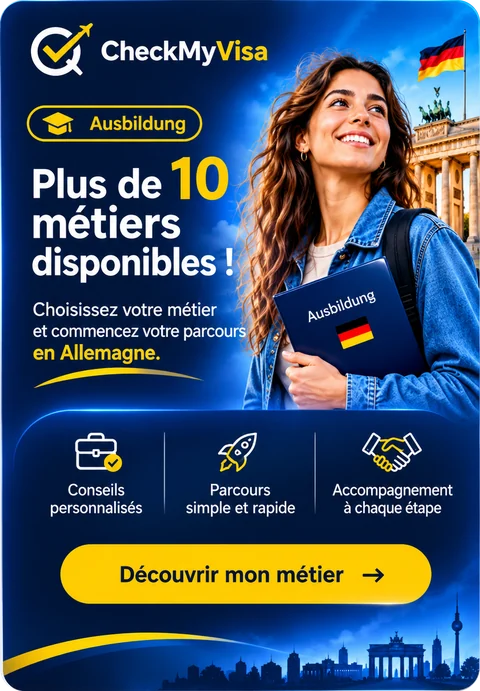
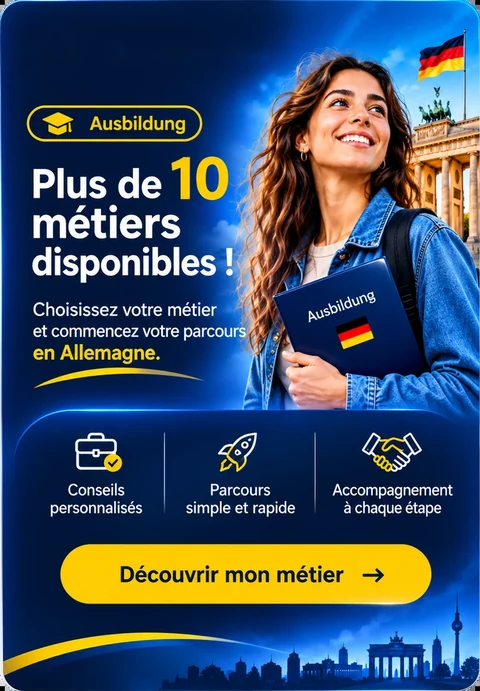
Accueil et Host & Go : placement des cartes, menu, image Ausbildung, thèmes, étape 2 (version 2026.11.23.2210)
- Accueil : cartes Ausbildung et Host & Go en rangée côte à côte avant la FAQ (empilées sur mobile)
- Carte Ausbildung : logo CheckMyVisa et flèche effacés de l'image
- Menu du haut : lien Ausbildung retiré sur toutes les pages (accès par la carte et le pied de page)
- Host & Go : six thèmes illustrés en bas de page (FR/EN/AR)
- Ausbildung étape 2 : expérience en cases à cocher, « Aucune expérience » exclusive

Claude-Session: https://claude.ai/code/session_01J6Y77exryMjTcQ2BsVLuCE

diff --git a/hostgo.js b/hostgo.js
@@ -4,9 +4,9 @@
   var lang = (window.SI && SI.lang) || document.documentElement.lang || "fr";
   if (["fr", "en", "ar"].indexOf(lang) < 0) lang = "fr";
   var copy = {
-    en: {home:"Home",about:"About",how:"How It Works",safety:"Safety",faq:"FAQ",signin:"Sign In",headline:"Travel differently.<br>Experience more.",lead:"Connect with locals, share cultures, and make your journey unforgettable.",start:"Start your journey",join:"Join As...",sub:"Choose how you want to be part of the Host & Go community",host:"Host",hostDesc:"Welcome travellers and share your home",traveller:"Traveller / Worker",travellerDesc:"Discover places, share your skills and experience local life",secure:"Safe & Secure<br>Community",global:"Global Network<br>Worldwide",human:"Real Human<br>Connections",together:"<em>Together,</em> let’s explore the world.",tagline:"Host & Go — More than a trip, a human exchange.",joinNow:"Join Now →"},
-    fr: {home:"Accueil",about:"À propos",how:"Comment ça marche",safety:"Sécurité",faq:"FAQ",signin:"Se connecter",headline:"Voyagez autrement.<br>Vivez plus.",lead:"Rencontrez les habitants, partagez les cultures et rendez votre voyage inoubliable.",start:"Commencer l’aventure",join:"Rejoindre comme…",sub:"Choisissez votre rôle dans la communauté Host & Go",host:"Hôte",hostDesc:"Accueillez des voyageurs et partagez votre quotidien",traveller:"Voyageur / Worker",travellerDesc:"Découvrez de nouveaux lieux, partagez vos compétences et vivez comme un local",secure:"Communauté<br>sûre et sécurisée",global:"Réseau mondial<br>international",human:"De vraies rencontres<br>humaines",together:"<em>Ensemble,</em> explorons le monde.",tagline:"Host & Go — Plus qu’un voyage, un échange humain.",joinNow:"Rejoindre →"},
-    ar: {home:"الرئيسية",about:"من نحن",how:"كيف يعمل",safety:"السلامة",faq:"الأسئلة",signin:"تسجيل الدخول",headline:"سافر بطريقة مختلفة.<br>اكتشف المزيد.",lead:"تعرّف على السكان المحليين وتبادل الثقافات واجعل رحلتك لا تُنسى.",start:"ابدأ رحلتك",join:"انضم بصفتك…",sub:"اختر دورك في مجتمع Host & Go",host:"مضيف",hostDesc:"استقبل المسافرين وشاركهم حياتك اليومية",traveller:"مسافر / عامل",travellerDesc:"اكتشف أماكن جديدة وشارك مهاراتك وعِش التجربة المحلية",secure:"مجتمع آمن<br>وموثوق",global:"شبكة عالمية<br>حول العالم",human:"روابط إنسانية<br>حقيقية",together:"<em>معاً،</em> لنستكشف العالم.",tagline:"Host & Go — أكثر من رحلة، إنه تبادل إنساني.",joinNow:"انضم الآن ←"}
+    en: {themesTitle:"Choose your experience",t1:"Family life",t2:"Farms & agriculture",t3:"Gardening & nature",t4:"Guesthouses",t5:"Cultural & language exchange",t6:"Animals & pet-sitting",home:"Home",about:"About",how:"How It Works",safety:"Safety",faq:"FAQ",signin:"Sign In",headline:"Travel differently.<br>Experience more.",lead:"Connect with locals, share cultures, and make your journey unforgettable.",start:"Start your journey",join:"Join As...",sub:"Choose how you want to be part of the Host & Go community",host:"Host",hostDesc:"Welcome travellers and share your home",traveller:"Traveller / Worker",travellerDesc:"Discover places, share your skills and experience local life",secure:"Safe & Secure<br>Community",global:"Global Network<br>Worldwide",human:"Real Human<br>Connections",together:"<em>Together,</em> let’s explore the world.",tagline:"Host & Go — More than a trip, a human exchange.",joinNow:"Join Now →"},
+    fr: {themesTitle:"Choisissez votre expérience",t1:"Vie en famille",t2:"Fermes et agriculture",t3:"Jardinage et nature",t4:"Maisons d'hôtes",t5:"Échange culturel et linguistique",t6:"Animaux et gardiennage",home:"Accueil",about:"À propos",how:"Comment ça marche",safety:"Sécurité",faq:"FAQ",signin:"Se connecter",headline:"Voyagez autrement.<br>Vivez plus.",lead:"Rencontrez les habitants, partagez les cultures et rendez votre voyage inoubliable.",start:"Commencer l’aventure",join:"Rejoindre comme…",sub:"Choisissez votre rôle dans la communauté Host & Go",host:"Hôte",hostDesc:"Accueillez des voyageurs et partagez votre quotidien",traveller:"Voyageur / Worker",travellerDesc:"Découvrez de nouveaux lieux, partagez vos compétences et vivez comme un local",secure:"Communauté<br>sûre et sécurisée",global:"Réseau mondial<br>international",human:"De vraies rencontres<br>humaines",together:"<em>Ensemble,</em> explorons le monde.",tagline:"Host & Go — Plus qu’un voyage, un échange humain.",joinNow:"Rejoindre →"},
+    ar: {themesTitle:"اختر تجربتك",t1:"الحياة العائلية",t2:"المزارع والزراعة",t3:"البستنة والطبيعة",t4:"بيوت الضيافة",t5:"التبادل الثقافي واللغوي",t6:"الحيوانات ورعايتها",home:"الرئيسية",about:"من نحن",how:"كيف يعمل",safety:"السلامة",faq:"الأسئلة",signin:"تسجيل الدخول",headline:"سافر بطريقة مختلفة.<br>اكتشف المزيد.",lead:"تعرّف على السكان المحليين وتبادل الثقافات واجعل رحلتك لا تُنسى.",start:"ابدأ رحلتك",join:"انضم بصفتك…",sub:"اختر دورك في مجتمع Host & Go",host:"مضيف",hostDesc:"استقبل المسافرين وشاركهم حياتك اليومية",traveller:"مسافر / عامل",travellerDesc:"اكتشف أماكن جديدة وشارك مهاراتك وعِش التجربة المحلية",secure:"مجتمع آمن<br>وموثوق",global:"شبكة عالمية<br>حول العالم",human:"روابط إنسانية<br>حقيقية",together:"<em>معاً،</em> لنستكشف العالم.",tagline:"Host & Go — أكثر من رحلة، إنه تبادل إنساني.",joinNow:"انضم الآن ←"}
   }[lang];
   document.documentElement.lang = lang;
   document.documentElement.dir = lang === "ar" ? "rtl" : "ltr";

diff --git a/index.html b/index.html
@@ -68,7 +68,6 @@
     <li><a href="./?accueil=1" aria-current="page">Accueil</a></li>
     <li><a href="./partenaires.html">Partenaires</a></li>
     <li><a href="./guide-visa.html">Guide</a></li>
-    <li><a href="./ausbildung/">Ausbildung</a></li>
     <li><a href="./a-propos.html">À propos</a></li>
     <li><a href="./contact.html">Contact</a></li>
   </ul>
@@ -96,7 +95,7 @@
 
   <div class="hero" id="home"></div>
 
-  <!-- Carte Ausbildung : accueil uniquement. Visuel compact (images/ausbildung-card-*.webp) dont la carte entière est un lien vers ./ausbildung/ (sélection des métiers). Gabarit inerte : visa-app.js l'insère dans le hero, juste après la carte « Où partez-vous ? ». Langue = celle de la page (FR, EN, AR) ; le visuel est en français, seul le texte alternatif change. -->
+  <!-- Carte Ausbildung : accueil uniquement. Visuel compact (images/ausbildung-card-*.webp) dont la carte entière est un lien vers ./ausbildung/ (sélection des métiers). Gabarit inerte : visa-app.js l'insère dans la rangée .vc-more, sous la zone principale et avant la FAQ. Langue = celle de la page (FR, EN, AR) ; le visuel est en français, seul le texte alternatif change. -->
   <template id="aus-tpl">
   <section class="aus-teaser" id="ausbildung-teaser" aria-label="Ausbildung">
     <a class="aus-in aus-link" lang="fr" href="./ausbildung/"><img src="./images/ausbildung-card-480.webp" srcset="./images/ausbildung-card-480.webp 480w, ./images/ausbildung-card-800.webp 800w" sizes="(min-width:900px) 340px, 85vw" width="480" height="691" loading="lazy" decoding="async" alt="Ausbildung : plus de 10 métiers disponibles. Choisissez votre métier et commencez votre parcours en Allemagne. Découvrir mon métier."></a>
@@ -105,7 +104,7 @@
   </section>
   </template>
 
-  <!-- Vitrine Host & Go : accueil uniquement, lien vers ./hostgo.html (page « Join As… », où se trouvent les six profils). Gabarit inerte : visa-app.js l'insère dans le hero, après la carte Ausbildung. Langue = celle de la page (FR, EN, AR). -->
+  <!-- Vitrine Host & Go : accueil uniquement, lien vers ./hostgo.html (page « Join As… », où se trouvent les six profils). Gabarit inerte : visa-app.js l'insère dans la rangée .vc-more, à côté de la carte Ausbildung. Langue = celle de la page (FR, EN, AR). -->
   <template id="hg-tpl">
   <section class="hg-teaser" id="hostgo-teaser" aria-label="Host &amp; Go">
     <div class="hg-card">

diff --git a/vc.css b/vc.css
@@ -1140,7 +1140,7 @@ html[lang="ar"] .hfaq,html[lang="ar"] .hfaq summary{font-family:var(--f-ar)}
 :root[data-theme="dark"] .hfaq-i p{color:#b8c9e6}
 @media (min-width:900px){
 .hfaq-list{grid-template-columns:repeat(2,minmax(0,1fr));align-items:start}
-body[data-step="0"] .hfaq{grid-column:1/-1;grid-row:3}
+body[data-step="0"] .hfaq{grid-column:1/-1;grid-row:4}
 }
 
 /* Required-document detection: explicit live list, independent of completion counters. */
@@ -1364,7 +1364,7 @@ body[data-step="0"] .vc-intro{grid-column:1/-1}
 #gr-buy{margin-top:.6rem}.gr-link{margin:.9rem 0 0;font-size:.8rem}
 @media(max-width:600px){.gr-figures{grid-template-columns:1fr}}
 
-/* Carte Ausbildung (accueil uniquement, rendue dans le hero après la carte « Où partez-vous ? ») : visuel compact, carte entière cliquable vers ./ausbildung/. Même rendu en thème clair et sombre. */
+/* Carte Ausbildung (accueil uniquement, rendue dans la rangée .vc-more, avant la FAQ) : visuel compact, carte entière cliquable vers ./ausbildung/. Même rendu en thème clair et sombre. */
 .aus-teaser .aus-in{display:none}
 html[lang="fr"] .aus-teaser .aus-in[lang="fr"],html[lang="en"] .aus-teaser .aus-in[lang="en"],html[lang="ar"] .aus-teaser .aus-in[lang="ar"]{display:block}
 body[data-step]:not([data-step="0"]) .aus-teaser{display:none}
@@ -1372,9 +1372,11 @@ body[data-step]:not([data-step="0"]) .aus-teaser{display:none}
 .aus-teaser .aus-link img{display:block;width:100%;height:auto;border-radius:inherit}
 .aus-teaser .aus-link:hover{transform:translateY(-2px);box-shadow:0 26px 48px -26px rgba(5,13,34,.95)}
 .aus-teaser .aus-link:focus-visible{outline:3px solid #ffce00;outline-offset:4px}
+.vc-more{display:flex;flex-direction:column;gap:22px;margin-top:26px}
+body[data-step]:not([data-step="0"]) .vc-more{display:none}
 @media (min-width:900px){
- body[data-step="0"] .aus-teaser{grid-column:1/-1;margin-top:40px}
- .aus-teaser .aus-link{width:340px}
+ body[data-step="0"] .vc-more{grid-column:1/-1;grid-row:3;display:grid;grid-template-columns:300px minmax(0,1fr);gap:24px;align-items:stretch;width:100%;max-width:1080px;margin:40px auto 0}
+ .vc-more .aus-teaser .aus-link{width:300px;margin:0}
 }
 @media (prefers-reduced-motion:reduce){.aus-teaser .aus-link{transition:none}.aus-teaser .aus-link:hover{transform:none}}
 

diff --git a/hostgo.html b/hostgo.html
@@ -51,6 +51,17 @@
     <div><b aria-hidden="true">◎</b><span data-i="global">Global Network<br>Worldwide</span></div>
     <div><b aria-hidden="true">♥</b><span data-i="human">Real Human<br>Connections</span></div>
   </section>
+  <section class="hg-themes" id="themes" aria-labelledby="hg-themes-title">
+    <h2 id="hg-themes-title" data-i="themesTitle">Choose your experience</h2>
+    <ul class="hg-theme-grid">
+      <li class="hg-theme"><img src="./images/hostgo/theme-famille.webp" alt="" width="480" height="330" loading="lazy" decoding="async"><span data-i="t1">Family life</span></li>
+      <li class="hg-theme"><img src="./images/hostgo/theme-ferme.webp" alt="" width="480" height="330" loading="lazy" decoding="async"><span data-i="t2">Farms &amp; agriculture</span></li>
+      <li class="hg-theme"><img src="./images/hostgo/theme-jardin.webp" alt="" width="480" height="330" loading="lazy" decoding="async"><span data-i="t3">Gardening &amp; nature</span></li>
+      <li class="hg-theme"><img src="./images/hostgo/theme-hotes.webp" alt="" width="480" height="330" loading="lazy" decoding="async"><span data-i="t4">Guesthouses</span></li>
+      <li class="hg-theme"><img src="./images/hostgo/theme-echange.webp" alt="" width="480" height="330" loading="lazy" decoding="async"><span data-i="t5">Cultural &amp; language exchange</span></li>
+      <li class="hg-theme"><img src="./images/hostgo/theme-animaux.webp" alt="" width="480" height="330" loading="lazy" decoding="async"><span data-i="t6">Animals &amp; pet-sitting</span></li>
+    </ul>
+  </section>
   <section class="hg-bottom" id="faq">
     <div class="hg-map" aria-hidden="true">✈</div>
     <div><h2 data-i="together"><em>Together,</em> let’s explore the world.</h2><p data-i="tagline">Host &amp; Go — More than a trip, a human exchange.</p></div>

diff --git a/visa-app.js b/visa-app.js
@@ -1147,9 +1147,10 @@ function homeHtml(t){
   if(!cur.ready){h+='<div class="book"><span class="slot">'+t.cSoon+'</span><b>'+nm(cur)+'</b><p>'+(S.origin==='tn'?t.soonText:ORI_SOON[S.origin][L])+'</p></div>'}
   h+=evCardHtml();
   h+='</div>';
-  var aus=document.getElementById("aus-tpl");if(aus)h+=aus.innerHTML;
-  var hg=document.getElementById("hg-tpl");if(hg)h+=hg.innerHTML;
   h+='<div class="side">'+(S.origin==='tn'?needsHtml(t):'')+photoHtml()+'</div>';
+  /* Rangée « à découvrir » : cartes Ausbildung et Host & Go côte à côte (desktop) ou l'une sous l'autre (mobile), juste sous la zone principale et avant la FAQ. */
+  var aus=document.getElementById("aus-tpl"),hg=document.getElementById("hg-tpl");
+  if(aus||hg)h+='<div class="vc-more">'+(aus?aus.innerHTML:'')+(hg?hg.innerHTML:'')+'</div>';
   h+=hfaqHtml();
   var whyIcons=["✦","◎","文","↗","✓"];
   h+='<section class="why why-showcase" aria-labelledby="why-title"><div class="why-head"><span class="why-eyebrow">'+(L==="ar"?"لماذا نحن؟":L==="en"?"THE CHECKMYVISA ADVANTAGE":"L’AVANTAGE CHECKMYVISA")+'</span><h2 id="why-title">'+t.whyTitle+'</h2><p class="why-lead">'+(L==="ar"?"مرافقة أوضح لتحضير ملف تأشيرتك بثقة.":L==="en"?"A clearer way to prepare your visa file with confidence.":"Une façon plus claire de préparer votre dossier visa, en toute confiance.")+'</p></div><ul class="why-grid">'+t.why.map(function(x,i){return '<li class="why-card"><span class="why-icon" aria-hidden="true">'+whyIcons[i%whyIcons.length]+'</span><span class="why-copy">'+x+'</span><span class="why-check" aria-hidden="true">✓</span></li>'}).join("")+'</ul><p class="why-note">'+t.whyNote+'</p></section>';

diff --git a/ausbildung/app.js b/ausbildung/app.js
@@ -11,7 +11,7 @@
     ]},
     {id:"experience",title:"Votre expérience",hint:"Qu'avez-vous déjà fait ? Plusieurs réponses possibles.",options:[
       ["professional","Expérience professionnelle"],["internship","Stage"],["personal_projects","Projets personnels"],["none","Aucune expérience"]
-    ]},
+    ],multi:true},
     {id:"german",title:"Vos langues",hint:"Quel est votre niveau actuel en allemand ?",options:[
       ["A0","Aucun"],["A1","A1 — débutant"],["A2","A2 — élémentaire"],["B1","B1 — intermédiaire"],["B2","B2 — indépendant"],["C1","C1 ou plus"]
     ]},
@@ -129,6 +129,14 @@
     $("resultsTitle").focus();
   }
 
+  // Question « expérience » : plusieurs cases possibles ; « Aucune expérience » est exclusive (cocher l'une décoche les autres).
+  $("answers").addEventListener("change", (e) => {
+    const t = e.target;
+    if (!t || t.name !== "experience" || t.type !== "checkbox") return;
+    const boxes = [...document.querySelectorAll('input[name="experience"]')];
+    if (t.checked && t.value === "none") boxes.forEach((x) => { if (x !== t) x.checked = false; });
+    else if (t.checked) boxes.forEach((x) => { if (x.value === "none") x.checked = false; });
+  });
   $("back").addEventListener("click", () => { collect(); step = Math.max(0, step - 1); render(true); });
   $("next").addEventListener("click", () => { collect(); if (step < steps.length - 1) { step++; render(true); } else showResults(); });
   $("restart").addEventListener("click", () => { step = 0; answers = emptyAnswers(); $("results").hidden = true; $("quiz").hidden = false; render(true); });

diff --git a/hotels.html b/hotels.html
@@ -17,7 +17,7 @@
 <link rel="stylesheet" href="./vols.css">
 <link rel="stylesheet" href="./hotels.css">
 </head>
-<body class="vols hotels" data-version="2026.11.23.2200">
+<body class="vols hotels" data-version="2026.11.23.2210">
 <nav class="sitenav vl-nav" aria-label="Navigation principale">
   <a class="sn-logo vl-logo" href="./?accueil=1" aria-label="CheckMyVisa">
     <svg class="vl-logo-i" viewBox="0 0 64 56" aria-hidden="true" focusable="false"><path d="M6 40C2 24 18 10 40 8" fill="none" stroke="#38bdf8" stroke-width="3.5" stroke-linecap="round"/><path d="M12 48c14 4 36-2 46-22" fill="none" stroke="#38bdf8" stroke-width="3.5" stroke-linecap="round" opacity=".7"/><path d="M60 8 24 24l8 3 4 10 4-7 9-4 7-4-5 4 6-5-5 1z" fill="#fff"/></svg>
@@ -78,7 +78,7 @@
 
 <div class="vl-upd" id="vl-upd" role="status" hidden><span id="vl-upd-t"></span> <button type="button" id="vl-upd-b"></button></div>
 
-<footer class="vl-foot"><p class="vl-foot-t" id="vl-foot-t"></p><p class="vl-ver" id="vl-ver">v 2026.11.23.2200</p></footer>
+<footer class="vl-foot"><p class="vl-foot-t" id="vl-foot-t"></p><p class="vl-ver" id="vl-ver">v 2026.11.23.2210</p></footer>
 
 <script src="./flight-hold.js"></script>
 <script src="./hotels.js"></script>

diff --git a/vols.html b/vols.html
@@ -16,7 +16,7 @@
 <link rel="stylesheet" href="./flight-hold.css">
 <link rel="stylesheet" href="./vols.css">
 </head>
-<body class="vols" data-version="2026.11.23.2200">
+<body class="vols" data-version="2026.11.23.2210">
 <nav class="sitenav vl-nav" aria-label="Navigation principale">
   <a class="sn-logo vl-logo" href="./?accueil=1" aria-label="CheckMyVisa">
     <svg class="vl-logo-i" viewBox="0 0 64 56" aria-hidden="true" focusable="false"><path d="M6 40C2 24 18 10 40 8" fill="none" stroke="#38bdf8" stroke-width="3.5" stroke-linecap="round"/><path d="M12 48c14 4 36-2 46-22" fill="none" stroke="#38bdf8" stroke-width="3.5" stroke-linecap="round" opacity=".7"/><path d="M60 8 24 24l8 3 4 10 4-7 9-4 7-4-5 4 6-5-5 1z" fill="#fff"/></svg>
@@ -70,7 +70,7 @@
 
 <div class="vl-upd" id="vl-upd" role="status" hidden><span id="vl-upd-t"></span> <button type="button" id="vl-upd-b"></button></div>
 
-<footer class="vl-foot"><p class="vl-foot-t" id="vl-foot-t"></p><p class="vl-ver" id="vl-ver">v 2026.11.23.2200</p></footer>
+<footer class="vl-foot"><p class="vl-foot-t" id="vl-foot-t"></p><p class="vl-ver" id="vl-ver">v 2026.11.23.2210</p></footer>
 
 <script src="./flight-hold.js"></script>
 <script src="./vols.js"></script>

diff --git a/hostgo.css b/hostgo.css
@@ -17,3 +17,11 @@
 @media(max-width:760px){.hg-sign{display:none}}
 #hostgo{position:relative}
 #hostgo .sn-lang{position:absolute;top:14px;inset-inline-end:clamp(14px,3vw,40px);z-index:6;margin:0}
+/* Thèmes d'expérience : six petites images en bas de page. */
+.hg-themes{padding:34px clamp(18px,3.2vw,48px) 40px;background:#fff}
+.hg-themes h2{margin:0 0 22px;text-align:center;color:var(--hg-ink);font-size:clamp(1.5rem,3.2vw,2.1rem);font-weight:850;line-height:1.15}
+.hg-theme-grid{display:grid;grid-template-columns:repeat(3,minmax(0,1fr));gap:18px;max-width:980px;margin:0 auto;padding:0;list-style:none}
+.hg-theme{margin:0;overflow:hidden;border:1px solid #dbe5f5;border-radius:18px;background:#fff;box-shadow:0 14px 30px -22px rgba(6,27,59,.55)}
+.hg-theme img{display:block;width:100%;height:auto;aspect-ratio:480/330;object-fit:cover}
+.hg-theme span{display:block;padding:12px 14px 14px;color:var(--hg-ink);font-weight:750;font-size:.98rem;line-height:1.3;text-align:center}
+@media(max-width:560px){.hg-theme-grid{grid-template-columns:repeat(2,minmax(0,1fr));gap:12px}.hg-theme span{padding:10px 8px 12px;font-size:.86rem}}

diff --git a/sw.js b/sw.js
@@ -1,6 +1,6 @@
 /* CheckMyVisa – cache limité au shell et aux assets statiques.
    Aucune API, donnée utilisateur ou requête POST n'est mise en cache. */
-const VERSION = "2026.11.23.2200"; /*@version*/
+const VERSION = "2026.11.23.2210"; /*@version*/
 const SHELL = "vc-shell-" + VERSION;
 const PRECACHE = [
   "./",
@@ -86,6 +86,12 @@ const PRECACHE = [
   "images/hostgo/hero.webp",
   "images/hostgo/voyageur.webp",
   "images/hostgo/hote.webp",
+  "images/hostgo/theme-famille.webp",
+  "images/hostgo/theme-ferme.webp",
+  "images/hostgo/theme-jardin.webp",
+  "images/hostgo/theme-hotes.webp",
+  "images/hostgo/theme-echange.webp",
+  "images/hostgo/theme-animaux.webp",
   "ausbildung/",
   "ausbildung/ausbildung.css",
   "ausbildung/career-matcher.js",

diff --git a/partenaires.html b/partenaires.html
@@ -22,8 +22,7 @@ footer{max-width:1000px;margin:auto;padding:0 18px 32px;color:var(--muted);font-
 <body>
 <nav class="sitenav" aria-label="Navigation principale">
 <a class="sn-logo" href="./?accueil=1"><b>Check</b>MyVisa</a>
-<ul><li><a href="./?accueil=1">Accueil</a></li><li><a href="./partenaires.html" aria-current="page">Partenaires</a></li><li><a href="./ausbildung/">Ausbildung</a></li>
-    <li><a href="./contact.html">Contact</a></li></ul>
+<ul><li><a href="./?accueil=1">Accueil</a></li><li><a href="./partenaires.html" aria-current="page">Partenaires</a></li>    <li><a href="./contact.html">Contact</a></li></ul>
 </nav>
 <main>
 <section class="hero">

diff --git a/hostgo-teaser.css b/hostgo-teaser.css
@@ -32,5 +32,5 @@ html[dir="rtl"] .hg-teaser .hg-h em{font-style:normal}
   .hg-teaser .hg-photo{height:100%;min-height:260px}
 }
 
-/* Accueil desktop (grille à 2 colonnes) : la vitrine occupe toute la largeur, centrée, comme la carte Ausbildung. */
-@media(min-width:900px){body[data-step="0"] .hg-teaser{grid-column:1/-1;justify-self:center;width:min(100%,860px);margin-top:28px}}
+/* Accueil desktop : la vitrine occupe le reste de la rangée .vc-more, à hauteur de la carte Ausbildung. */
+@media(min-width:900px){.vc-more .hg-teaser,.vc-more .hg-teaser .hg-in,.vc-more .hg-teaser .hg-card{height:100%}}
